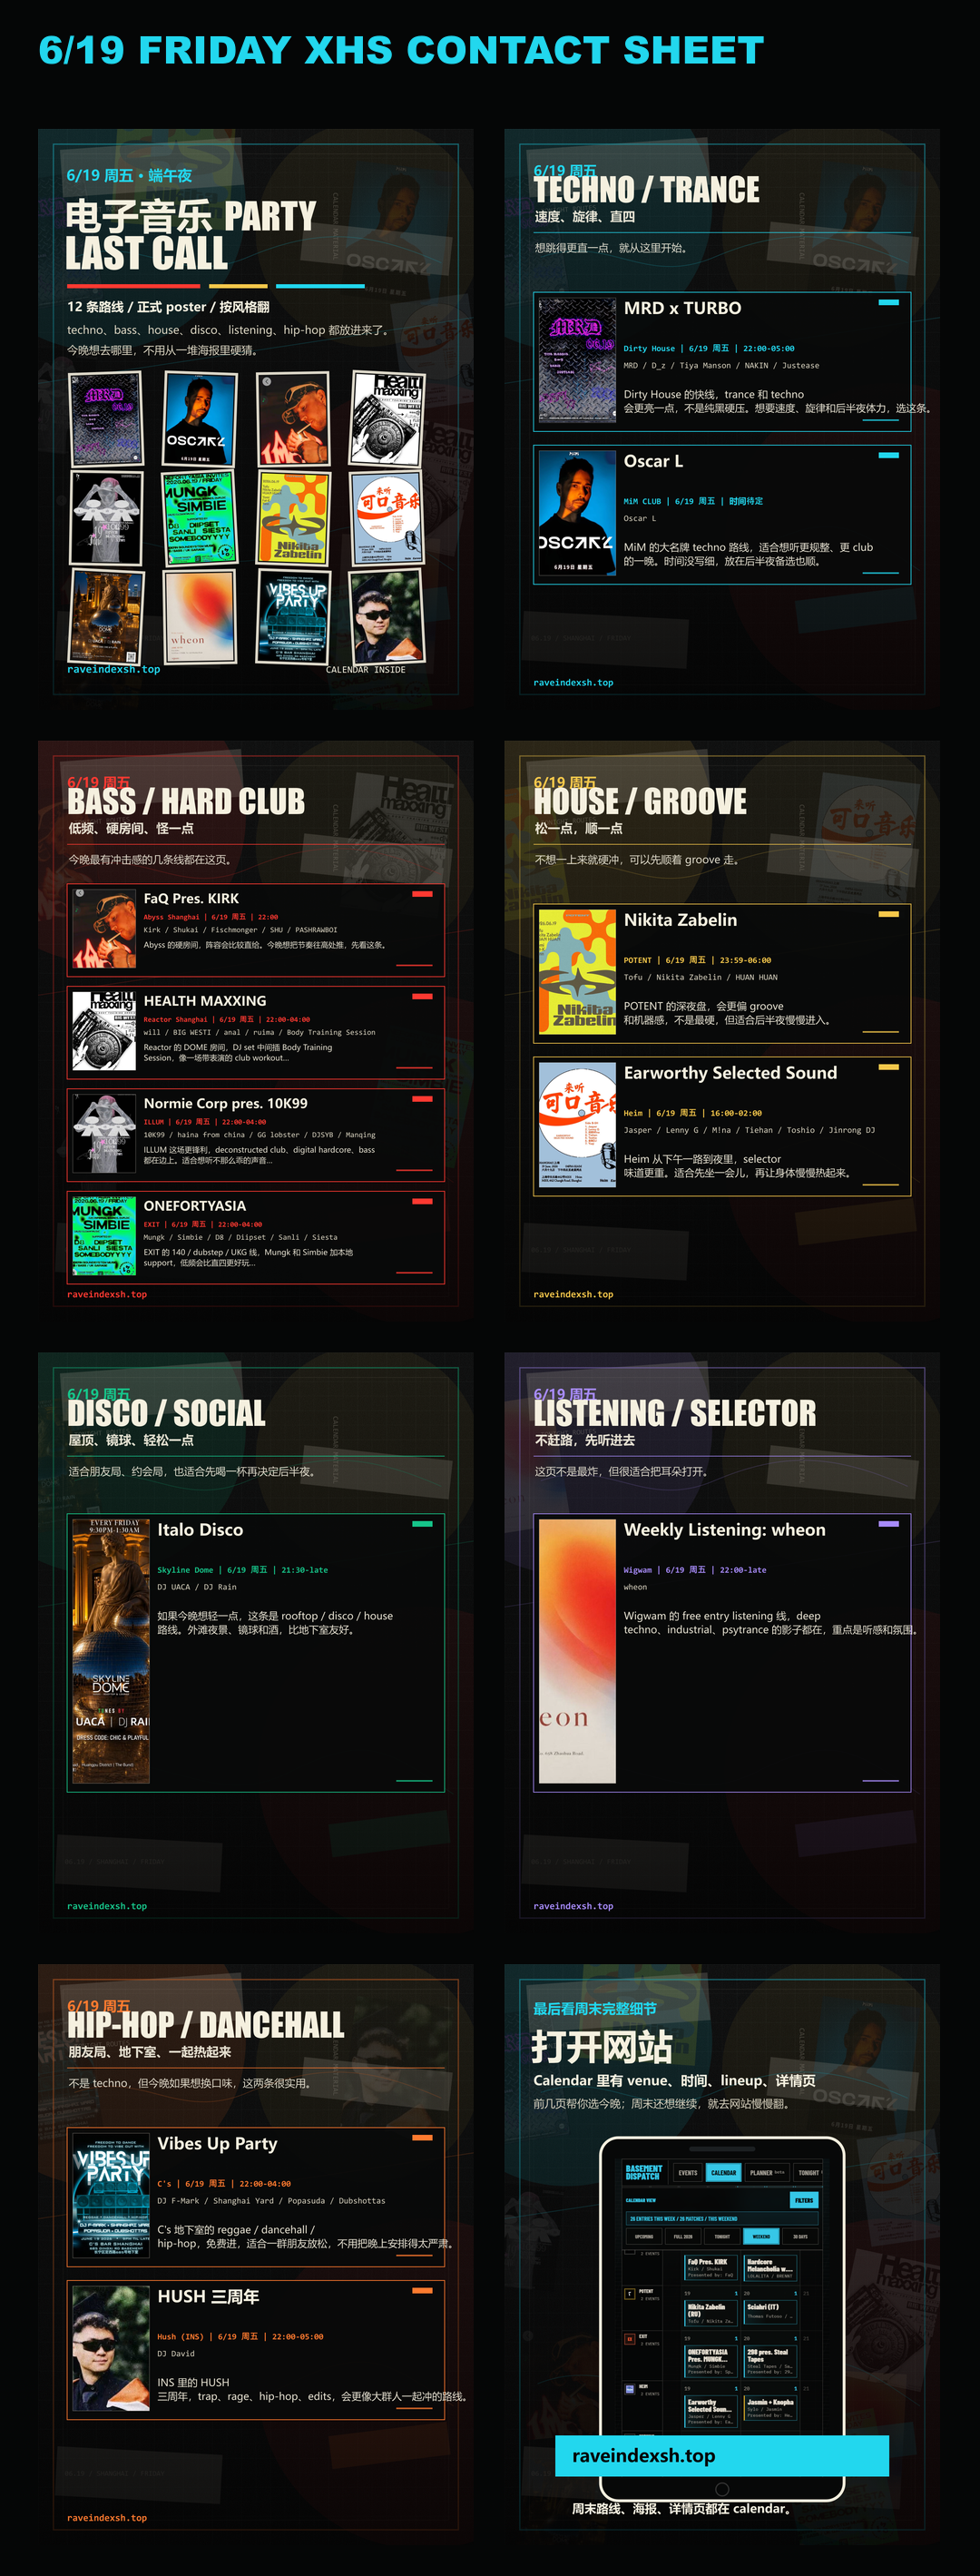
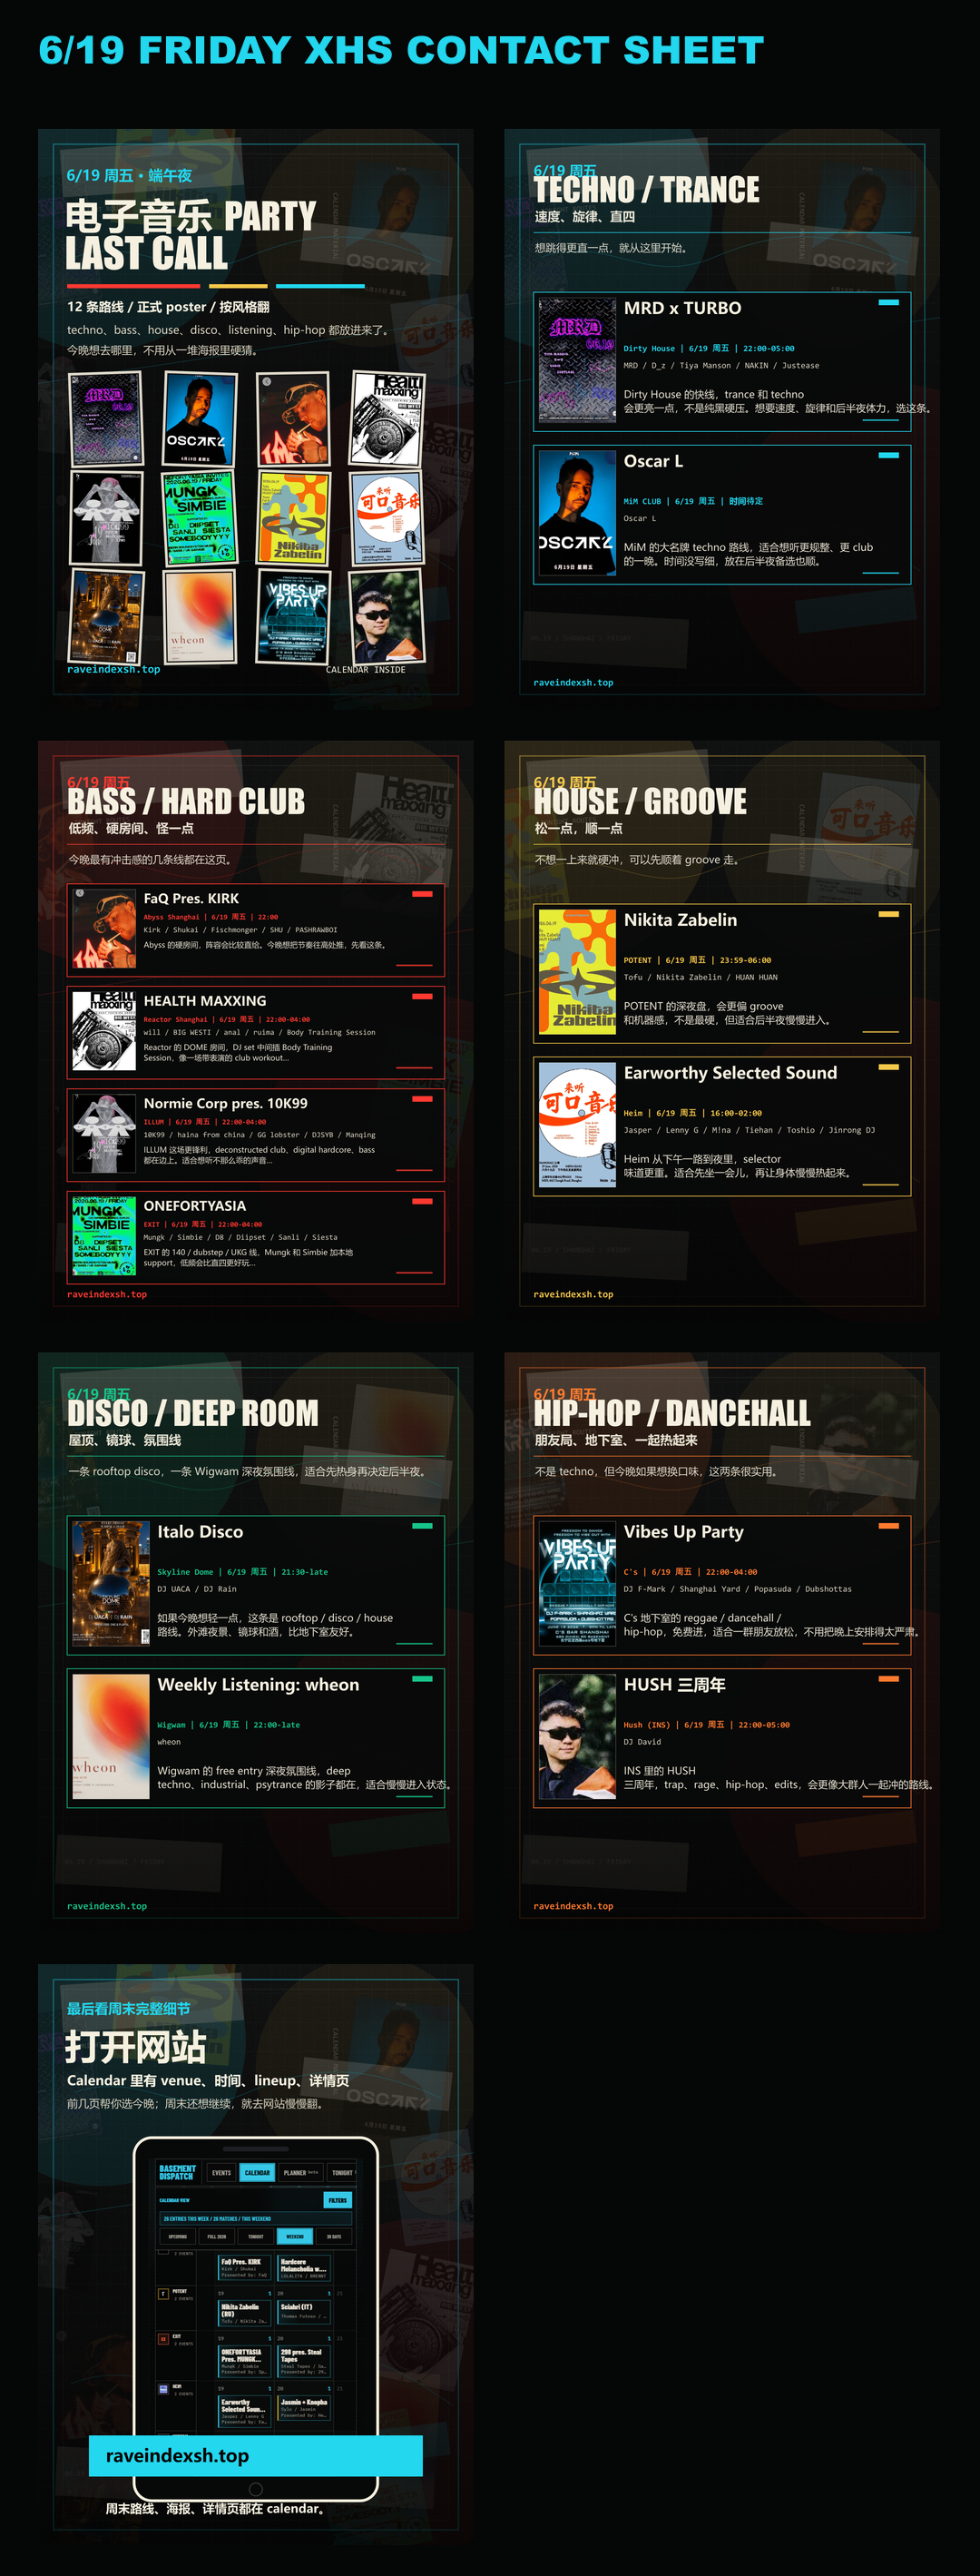
Merge Friday XHS disco and deep room pages

diff --git a/assets/social/xhs-posts/2026-06-19-friday-style-guide/generate-friday-style-guide.js b/assets/social/xhs-posts/2026-06-19-friday-style-guide/generate-friday-style-guide.js
@@ -71,7 +71,7 @@ const eventCopy = {
     short: "Weekly Listening: wheon",
     displayTime: "22:00-late",
     lineup: "wheon",
-    body: "Wigwam 的 free entry listening 线，deep techno、industrial、psytrance 的影子都在，重点是听感和氛围。",
+    body: "Wigwam 的 free entry 深夜氛围线，deep techno、industrial、psytrance 的影子都在，适合慢慢进入状态。",
   },
   "2026-06-19-vibes-up-party-reggae-dancehall-hip-h": {
     short: "Vibes Up Party",
@@ -118,23 +118,18 @@ const stylePages = [
     note: "不想一上来就硬冲，可以先顺着 groove 走。",
   },
   {
-    file: "05-disco-social.png",
-    slug: "DISCO / SOCIAL",
-    cn: "屋顶、镜球、轻松一点",
+    file: "05-disco-deep-room.png",
+    slug: "DISCO / DEEP ROOM",
+    cn: "屋顶、镜球、氛围线",
     color: "#16c58a",
-    ids: ["2026-06-19-italo-disco-shanghai-s-italian-roofto"],
-    note: "适合朋友局、约会局，也适合先喝一杯再决定后半夜。",
+    ids: [
+      "2026-06-19-italo-disco-shanghai-s-italian-roofto",
+      "wigwam-weekly-listening-wheon",
+    ],
+    note: "一条 rooftop disco，一条 Wigwam 深夜氛围线，适合先热身再决定后半夜。",
   },
   {
-    file: "06-listening-selector.png",
-    slug: "LISTENING / SELECTOR",
-    cn: "不赶路，先听进去",
-    color: "#a78bfa",
-    ids: ["wigwam-weekly-listening-wheon"],
-    note: "这页不是最炸，但很适合把耳朵打开。",
-  },
-  {
-    file: "07-hiphop-dancehall.png",
+    file: "06-hiphop-dancehall.png",
     slug: "HIP-HOP / DANCEHALL",
     cn: "朋友局、地下室、一起热起来",
     color: "#ff7a2f",
@@ -157,8 +152,7 @@ const caption = `今晚不用从一堆海报里硬猜，我按声音和房间感
 TECHNO / TRANCE：MRD x TURBO、Oscar L
 BASS / HARD CLUB：Abyss 的 KIRK、Reactor HEALTH MAXXING、ILLUM 10K99、EXIT ONEFORTYASIA
 HOUSE / GROOVE：Nikita Zabelin、Heim Earworthy
-DISCO / SOCIAL：Italo Disco
-LISTENING / SELECTOR：Wigwam wheon
+DISCO / DEEP ROOM：Italo Disco、Wigwam wheon
 HIP-HOP / DANCEHALL：C's Vibes Up、HUSH 三周年
 
 想看时间、venue、lineup、海报和详情页，去 ${SITE} 的 Calendar。`;
@@ -481,7 +475,7 @@ async function renderCalendarPage(posterUris) {
       <text x="168" y="1360" fill="#f5f0df" font-size="30" font-weight="800">周末路线、海报、详情页都在 calendar。</text>
     </g>
   </svg>`;
-  await renderSvg("08-calendar-site.png", svg);
+  await renderSvg("07-calendar-site.png", svg);
 }
 
 async function renderContactSheet(files) {
@@ -530,10 +524,9 @@ ${caption}
 2. 02-techno-trance.png
 3. 03-bass-hard-club.png
 4. 04-house-groove.png
-5. 05-disco-social.png
-6. 06-listening-selector.png
-7. 07-hiphop-dancehall.png
-8. 08-calendar-site.png
+5. 05-disco-deep-room.png
+6. 06-hiphop-dancehall.png
+7. 07-calendar-site.png
 `;
   fs.writeFileSync(path.join(OUT_DIR, "publish-kit.md"), kit, "utf8");
   fs.writeFileSync(path.join(OUT_DIR, "publish-copy.txt"), `标题：${titleOptions[0]}\n\n文案：\n${caption}\n`, "utf8");
@@ -559,7 +552,7 @@ async function main() {
   const files = [
     "01-cover.png",
     ...stylePages.map((page) => page.file),
-    "08-calendar-site.png",
+    "07-calendar-site.png",
   ];
   await renderContactSheet(files);
   await writeCopy();

diff --git a/assets/social/xhs-posts/2026-06-19-friday-style-guide/publish-kit.md b/assets/social/xhs-posts/2026-06-19-friday-style-guide/publish-kit.md
@@ -13,8 +13,7 @@
 TECHNO / TRANCE：MRD x TURBO、Oscar L
 BASS / HARD CLUB：Abyss 的 KIRK、Reactor HEALTH MAXXING、ILLUM 10K99、EXIT ONEFORTYASIA
 HOUSE / GROOVE：Nikita Zabelin、Heim Earworthy
-DISCO / SOCIAL：Italo Disco
-LISTENING / SELECTOR：Wigwam wheon
+DISCO / DEEP ROOM：Italo Disco、Wigwam wheon
 HIP-HOP / DANCEHALL：C's Vibes Up、HUSH 三周年
 
 想看时间、venue、lineup、海报和详情页，去 raveindexsh.top 的 Calendar。
@@ -25,7 +24,6 @@ HIP-HOP / DANCEHALL：C's Vibes Up、HUSH 三周年
 2. 02-techno-trance.png
 3. 03-bass-hard-club.png
 4. 04-house-groove.png
-5. 05-disco-social.png
-6. 06-listening-selector.png
-7. 07-hiphop-dancehall.png
-8. 08-calendar-site.png
+5. 05-disco-deep-room.png
+6. 06-hiphop-dancehall.png
+7. 07-calendar-site.png